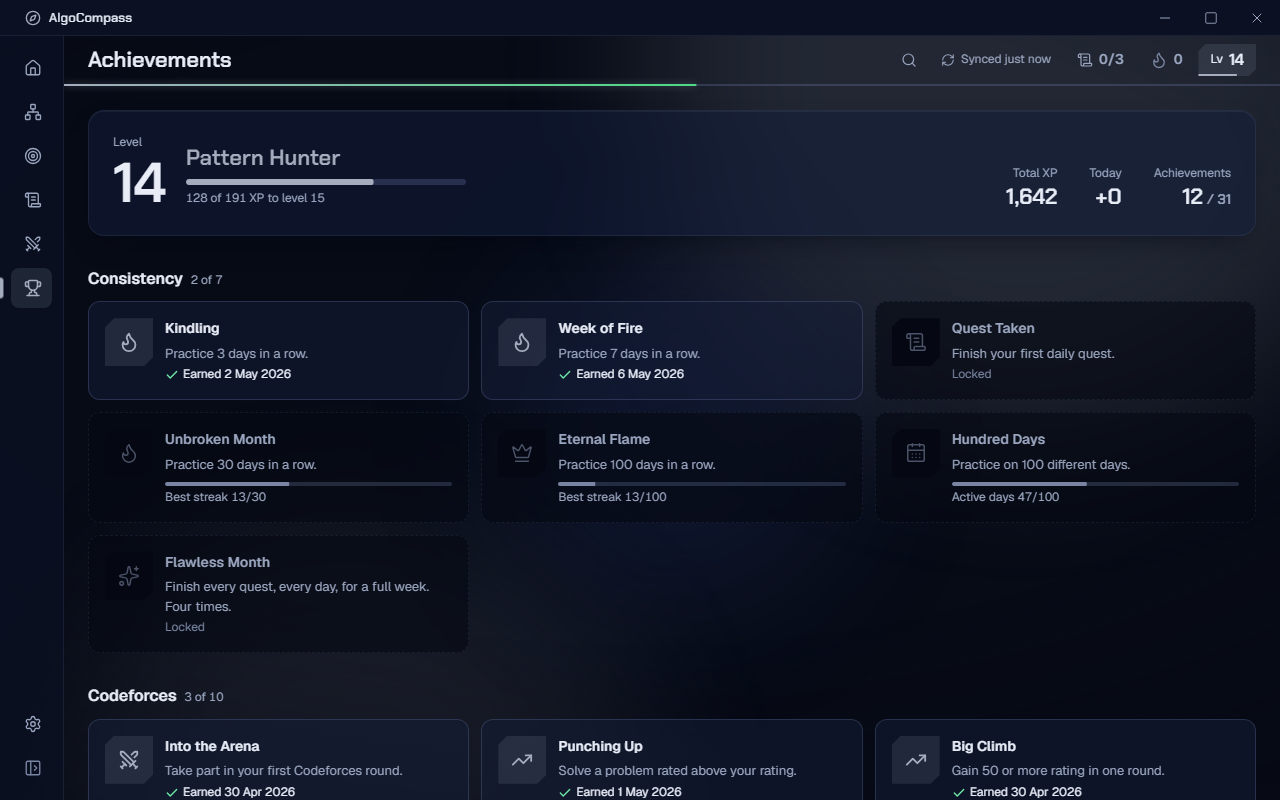
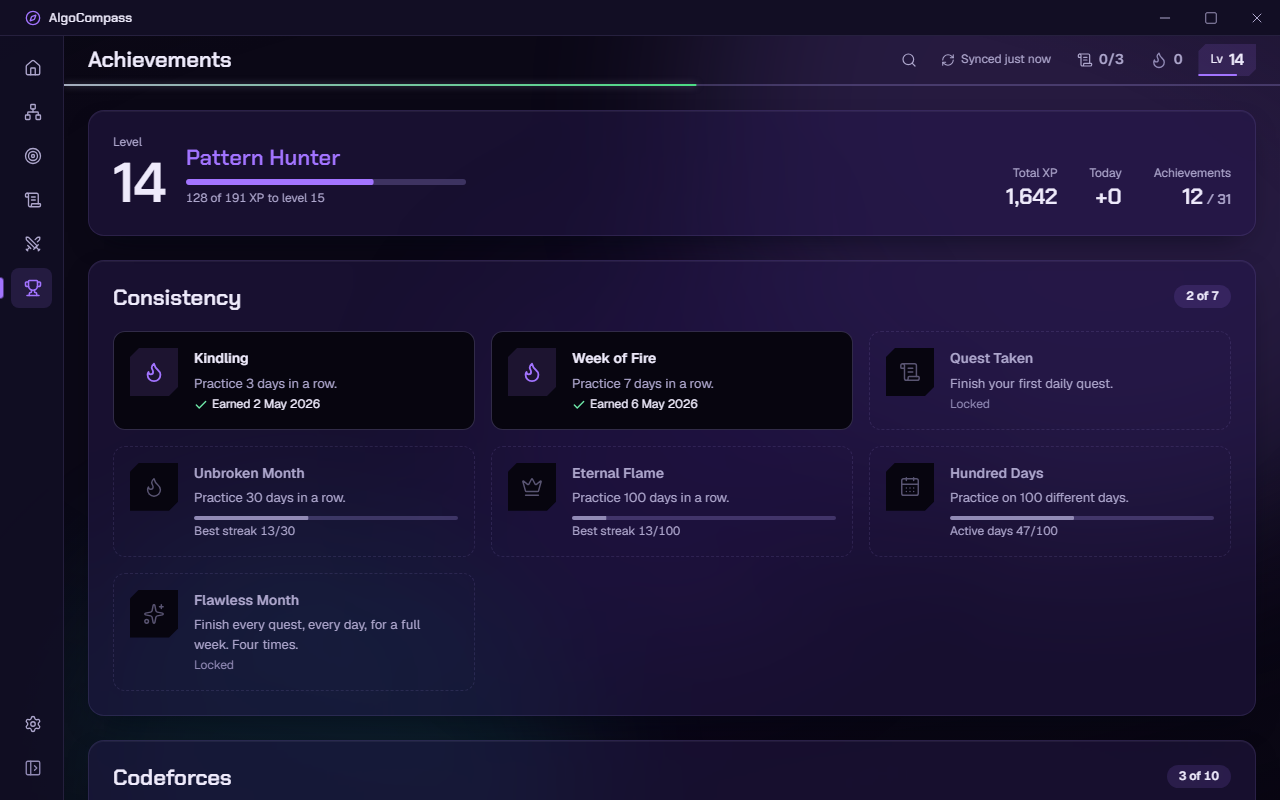
Release prep for v1.1.0: screenshots, README themes, docs, version
README screenshots re-taken in Neon Arcade at 1280x800, plus Ember and Ocean
theme shots and a Themes section; descriptions updated for the bento layout.
PROGRESS.md gets the v1.1.0 section with critique results and a release
history with current commit hashes. docs/redesign is superseded and removed.
Heatmap month labels no longer collide when the range starts late in a month.
Version 1.1.0 in package.json, tauri.conf.json and Cargo.toml.

diff --git a/src/features/home/ActivityHeatmap.tsx b/src/features/home/ActivityHeatmap.tsx
@@ -68,7 +68,8 @@ export function ActivityHeatmap({ activity }: { activity: readonly DailyActivity
         {weeks.map((col, w) => (
           <div key={w} aria-hidden className="flex shrink-0 flex-col gap-1" style={{ width: CELL }}>
             <span className="h-4 text-label leading-none whitespace-nowrap text-ink-faint">
-              {col[0] && (w === 0 || col[0].date.getDate() <= 7) ? MONTH(col[0].date) : ""}
+              {/* First column: only when it starts early in its month, or it collides with the next label ("JanFeb"). */}
+              {col[0] && (w === 0 ? col[0].date.getDate() <= 14 : col[0].date.getDate() <= 7) ? MONTH(col[0].date) : ""}
             </span>
             {col.map((c) => (
               <span

diff --git a/PROGRESS.md b/PROGRESS.md
@@ -1,6 +1,59 @@
 # AlgoCompass progress log
 
-## Latest: public release, Phase 10 (2026-10-15)
+## Latest: v1.1.0, the redesign everywhere (Phase 11, 2026-10-15)
+
+**Shipped as v1.1.0** (tag `v1.1.0`, release https://github.com/26bma038-lang/algocompass/releases/tag/v1.1.0). `npm test` passes (287), `npm run build` is green, and `npm run tauri build` produced the 1.1.0 installers (sizes below).
+
+**What changed**
+1. **The redesign is merged** (`32a6c24`): three themes, rank colour only on rank elements, and the Home Base bento. The `redesign` worktree and branch are removed.
+2. **Bento on every screen** (`0afc348`): 12-column grid, 24px gaps, glass cards with 24px padding, and one shared `CardHeader` (`src/components/CardHeader.tsx`) with a 22px Chakra Petch title, a description, a count pill and actions.
+   - **Skill Tree:** the three Work on next topics are tiles with their reasons, and the canvas is the hero card with filters and search in its header. It keeps its full height (the space above it is still 154px).
+   - **Topic Detail:** a hero tile (ring, status, builds on, the Codeforces/LeetCode split), stat tiles, then Upsolve / Solved / Recommended / Resources as cards with count pills.
+   - **Practice:** Today's mix leads, then Upsolve beside By topic.
+   - **Quests:** Today's quests beside Level, then This week beside the Weekly review.
+   - **Contests:** the next round leads (countdown in the theme accent), upcoming rounds sit beside past contests, and the **full rating chart** is now here. It loads Recharts only on this screen.
+   - **Achievements:** the level hero, then a card per category with a "2 of 7" pill and the achievements as tiles.
+   - **Home Base / Settings / Welcome:** the remaining card titles use the same 22px style. Later contests is now a proper card with sunken tiles.
+3. **README:**
+   - Every screenshot re-taken in Neon Arcade at 1280x800.
+   - A new Themes section with Ember and Ocean shots.
+   - The Home Base, Skill Tree, Contests and Settings descriptions are updated.
+   - The installer name is version-agnostic.
+4. **Docs:**
+   - DESIGN.md gets "Bento across the app".
+   - CLAUDE.md and PRODUCT.md now describe the colour roles: the theme owns the accent, and the rank colour marks rank elements.
+
+**Impeccable critique** (one in-context pass, no sub-agents): 30 screenshots, all 8 screens in Neon Arcade, Ember and Ocean at 1100x700, plus 6 screens at 1920x1080.
+- **Fixed (P1):** on Practice and Quests, card-header actions (pill, New mix) wrapped under long descriptions. The title block now flexes, so they stay right.
+- **Fixed (P2):** the activity heatmap's first two month labels collided ("JanFeb") when the window started late in a month. The first column is now labelled only when it starts in the first half of its month.
+- **Checked:** the themes read well on every screen, with no contrast problems; the Skill Tree canvas keeps its height; the Topic Detail panel fits 440px; the past-contests table no longer collides.
+- **Left as is (P2):**
+  - On very wide windows, Home Base's equal-height rows leave space at the bottom of the shorter card. Equal rows are the bento rule.
+  - Settings stays one readable form column below 1536px.
+
+**Decisions**
+- **All top-level card titles use one size** (22px Chakra Petch), except EmptyState (16px per DESIGN.md) and the small "Codeforces" label inside the Home hero.
+- **The full rating chart moved to Contests** rather than being deleted with Home Base's old layout. Rating changes happen there, and Home Base keeps the sparkline.
+- **`docs/redesign/` is removed**, superseded by `docs/screenshots/theme-*.png` and the re-taken README shots.
+- **No stale commit hashes to fix (correction).** In v1.0 I said PROGRESS.md quoted pre-rewrite commit hashes. It doesn't. I checked all 22 pre-rewrite hashes against the whole repo (PROGRESS.md, README, every doc) and project memory: none appear. The release history below lists the current hashes, so there's an accurate reference.
+
+**Release history (current hashes, after the email rewrite)**
+
+| Version / phase | Commits |
+|---|---|
+| Scaffold, data layer, topic engine | `2e8ad84`, `61da780`, `745854b` |
+| Home Base, polish | `f14b472`, `5651c47` |
+| Skill Tree + Topic Detail | `cbc5997` |
+| Recommender + Practice | `b3362a4` |
+| Quests, Contests, reminders, weekly review (Phase 7) | `ca55c31`, `9dc9c45`, `cb10213`, `577bf70`, `e8f4bb5` |
+| XP, achievements (Phase 8) | `b649686`, `b1f9258`, `cfc682b` |
+| v1.0 polish, palette, bundle split, release prep (Phase 9) | `d295ad9`, `b273969`, `c09c84c`, `93c5077`, `21a969c` |
+| **v1.0.0** onboarding, README, public release (Phase 10) | `d5bf33a`, `3bcc6ed`, `006ca16`, `180e0c2` (tag `v1.0.0`) |
+| **v1.1.0** redesign + bento everywhere (Phase 11) | `3b00c70`, `32a6c24`, `0afc348`, then the release commits (tag `v1.1.0`) |
+
+---
+
+## Previous: public release, Phase 10 (2026-10-15)
 
 **Part 1: First-run onboarding.**
 - **No default handles any more.** A new install opens on a welcome screen (title bar only, no sidebar or top bar):

diff --git a/README.md b/README.md
@@ -19,10 +19,15 @@ AlgoCompass answers those in a two-second glance, from the tray, without logins 
 ## Features
 
 ### Home Base: the daily check-in
-Your Codeforces rating and progress to the next rank, the streak, today's quests, the one topic to work on next (with the two problems to start with), and the next Codeforces round. All of it fits in the window at 1100×700. The app's accent colour is your real Codeforces rank colour, and it changes when you get promoted.
+A bento grid that answers "am I on track today?" at a glance:
+- **The hero:** your Codeforces rating in your real rank colour, a rating sparkline, progress to the next rank, and a countdown to the next round.
+- **Today's two cards:** the topic to work on next (with the two problems to start with), and your streak with today's quests.
+- **Below:** your activity heatmap, LeetCode, the later contests, and where you stand.
+
+The hero and both cards fit in the window at 1100×700.
 
 ### Skill Tree
-33 topics on a prerequisite graph (built with React Flow). Each node has a mastery ring scored 0–100 from your own solves. Topics unlock as their prerequisites reach Developing, and the three most urgent ones are marked "Work on next".
+33 topics on a prerequisite graph (built with React Flow). Each node has a mastery ring scored 0–100 from your own solves. Topics unlock as their prerequisites reach Developing. The three most urgent ones lead the screen as "Work on next" tiles, each with its reason.
 
 ![Skill Tree](docs/screenshots/skill-tree.png)
 
@@ -46,7 +51,7 @@ Three daily quests drawn from your mix. They check themselves off when a sync se
 ![Quests](docs/screenshots/quests.png)
 
 ### Contests
-Upcoming Codeforces rounds come first, with LeetCode weekly and biweekly contests below them. Each shows a countdown, local start time, duration and division, plus a Register button. Mark "I'll attend" to get Windows reminders 1 hour and 10 minutes before. Past rounds show your rank, problems solved and rating change.
+Upcoming Codeforces rounds come first, with LeetCode weekly and biweekly contests below them. Each shows a countdown, local start time, duration and division, plus a Register button. Mark "I'll attend" to get Windows reminders 1 hour and 10 minutes before. Past rounds show your rank, problems solved and rating change, and a full rating chart shows every rated round against the rank bands.
 
 ![Contests](docs/screenshots/contests.png)
 
@@ -61,9 +66,19 @@ A command palette to jump to any screen or topic, sync, or open today's mix or t
 ![Command palette](docs/screenshots/palette.png)
 
 ### Settings
-Your handles, weekly goals (Codeforces problems, LeetCode problems and contests per week), a toggle for each notification with the evening reminder time, and launch on Windows startup.
+- Your handles and the theme.
+- Weekly goals: Codeforces problems, LeetCode problems and contests per week.
+- A toggle for each notification, with the evening reminder time.
+- Launch on Windows startup.
 
 ![Settings](docs/screenshots/settings.png)
+
+### Themes
+Three vibrant themes: **Neon Arcade** (electric violet and cyan, the default), **Ember** (orange and gold on charcoal) and **Ocean** (teal and bright blue on navy). Every theme is contrast-checked for readability. Your Codeforces rank colour stays on the things it belongs to: your rating, your rank and your progress to the next rank.
+
+| Ember | Ocean |
+|---|---|
+| ![Ember theme](docs/screenshots/theme-ember.png) | ![Ocean theme](docs/screenshots/theme-ocean.png) |
 
 ### Desktop
 - Lives in the system tray, with a tray menu showing today's quest progress.
@@ -104,7 +119,7 @@ LeetCode GQL ───┘   (normalize)  (cache)└─ quests / XP ──┘
 
 ## Download and install
 
-1. Download `AlgoCompass_1.0.0_x64-setup.exe` (or the `.msi`) from the **[latest release](https://github.com/26bma038-lang/algocompass/releases/latest)**.
+1. Download the `AlgoCompass_…_x64-setup.exe` installer (or the `.msi`) from the **[latest release](https://github.com/26bma038-lang/algocompass/releases/latest)**.
 2. Run it. The app isn't code-signed, so Windows SmartScreen will warn: click **More info → Run anyway**.
 3. Enter your Codeforces handle (and optionally your LeetCode username) on the welcome screen.
 
